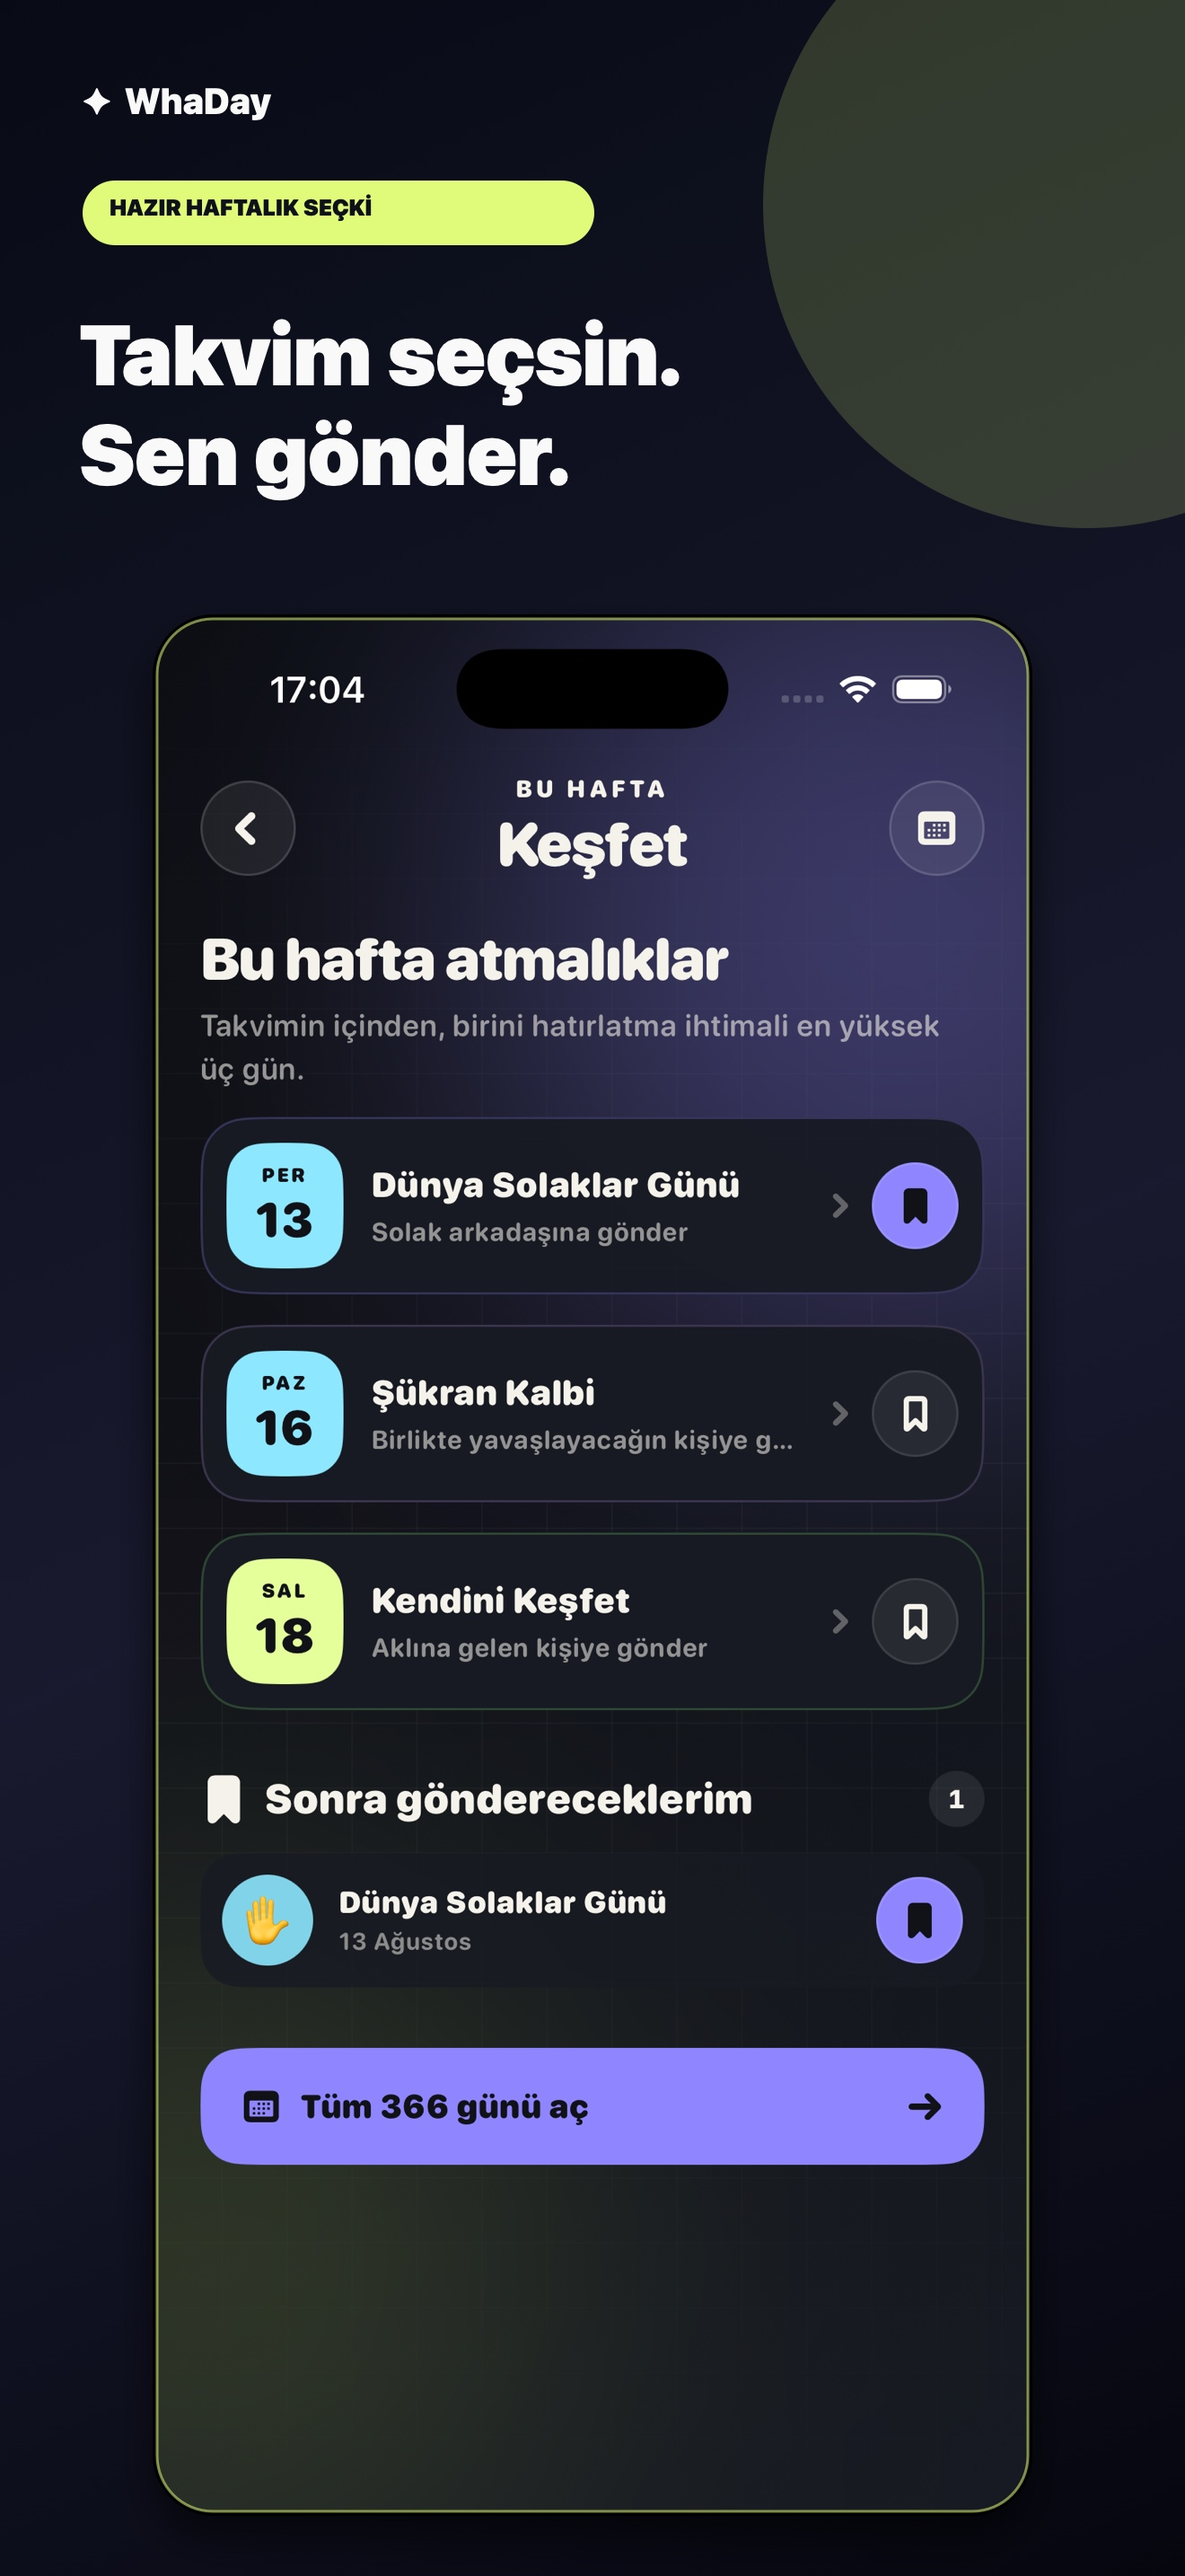
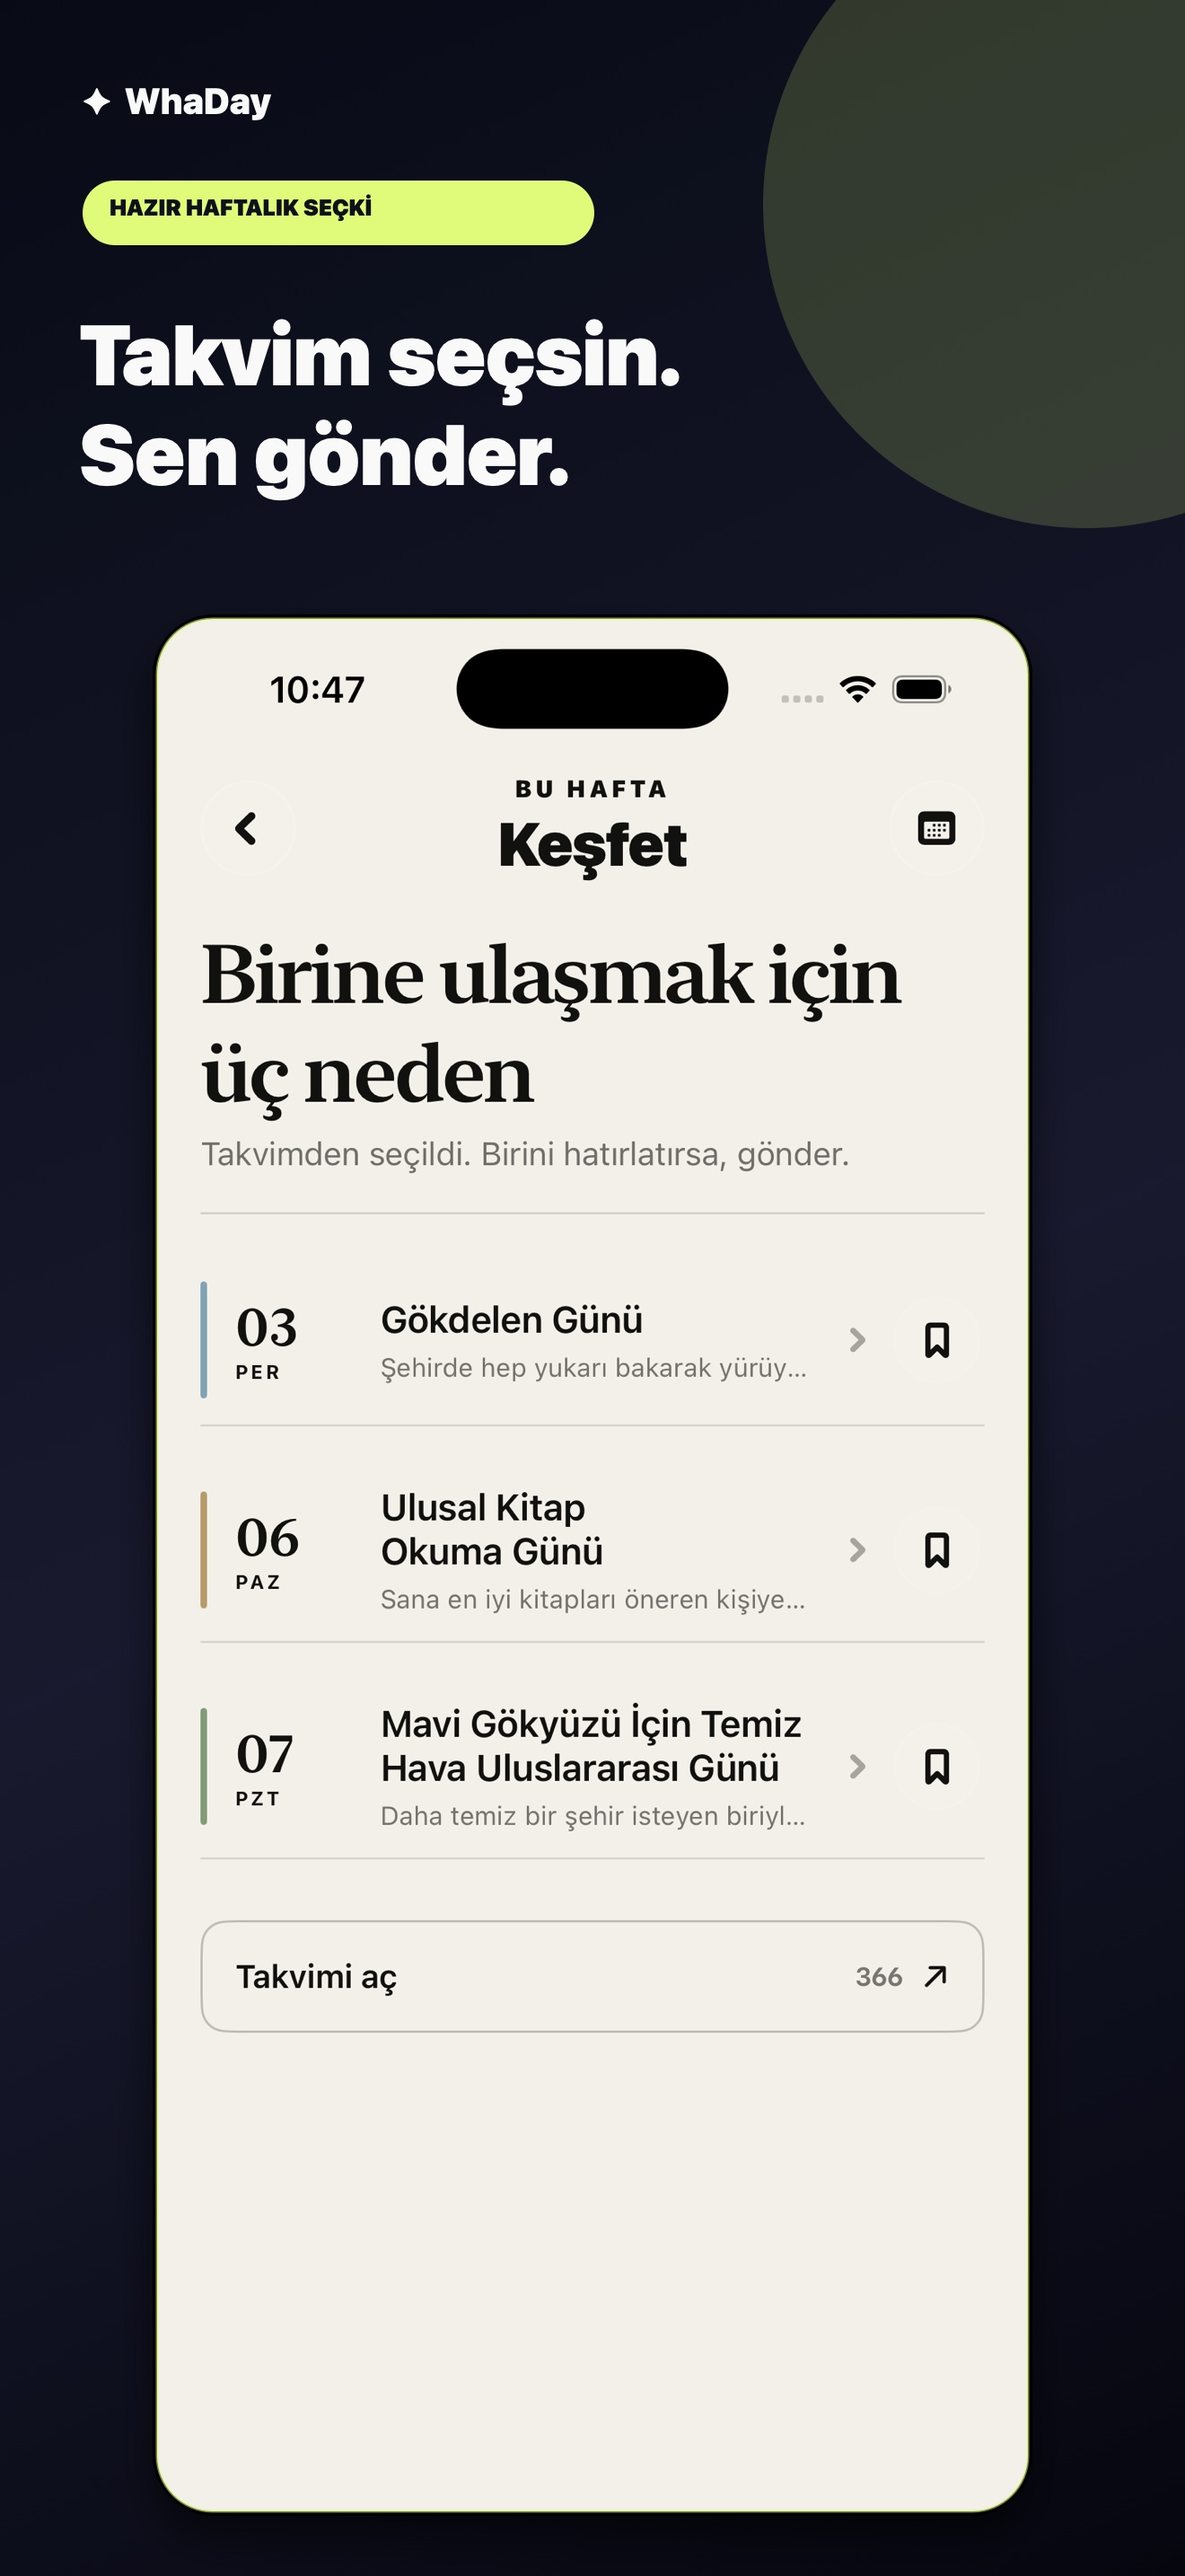
fix: keep StoreKit config out of the shipped bundle, refresh store assets
project.yml swept the whole WhaDayNative folder into the app target's sources,
so xcodegen classified WhaDayNative/Purchases/WhaDay.storekit as a resource and
the Release bundle shipped the local StoreKit test configuration. Excluded it;
verified the Release .app no longer contains it. The scheme still points at the
file on disk for local runs.

Store screenshots were captured on 2026-08-13 and predated ten UI commits,
including the ivory surface redesign and the reworked Discover layout, so they
no longer showed the product. Recaptured all five screens at 1206 x 2622 from a
Turkish iPhone 17 simulator on the current revision and regenerated the
1320 x 2868 assets.

Only 01-04 are upload-ready. The Settings framing needed for the fifth asset
always exposes the WhaDay+ price row, and the simulator's StoreKit environment
reports a price that is not the real localized App Store price, so that asset
is withheld rather than shipped wrong. Reason recorded in the marketing README
and RELEASE_READINESS.

diff --git a/docs/RELEASE_READINESS.md b/docs/RELEASE_READINESS.md
@@ -19,7 +19,10 @@ plan; a successful local build is not a published app.
 - The bilingual Home → Share Studio → Discover journey passes on compact,
   standard and large simulator classes, including Accessibility XXXL and
   Increased Contrast.
-- Turkish App Store metadata and a five-image 1320 × 2868 screenshot set match the current product.
+- Turkish App Store metadata is current. Four 1320 × 2868 screenshots (`01`-`04`)
+  are regenerated against the ivory release candidate; the fifth slot is held
+  back because the only Settings framing available exposes a simulator StoreKit
+  price rather than the real App Store price.
 - WhaDay's privacy manifest declares its local UserDefaults access. Embedded
   Google Mobile Ads and UMP privacy manifests are included in the built app;
   production App Privacy answers must include their declared advertising,

diff --git a/marketing/app-store/README.md b/marketing/app-store/README.md
@@ -21,3 +21,13 @@ swift scripts/generate_store_screenshots.swift \
 ```
 
 Every asset must be visually inspected after generation. In particular, confirm that headlines do not collide with the phone frame, long localized titles are not clipped in a misleading way, and the screen reflects the exact release candidate.
+
+## Current asset set
+
+Only `01`–`04` are upload-ready. The fifth slot (`05-her-sabah-surpriz.jpg`) is
+intentionally absent: it frames the Settings screen, whose WhaDay+ row renders
+`purchaseStore.displayPrice`, and the simulator's StoreKit test environment
+reports a price that is not the real localized App Store price. The Settings
+content is too short to scroll that row out of frame. Re-shoot the fifth asset
+only after the final WhaDay+ price exists in App Store Connect, or reframe the
+slot onto a screen that carries no price.
